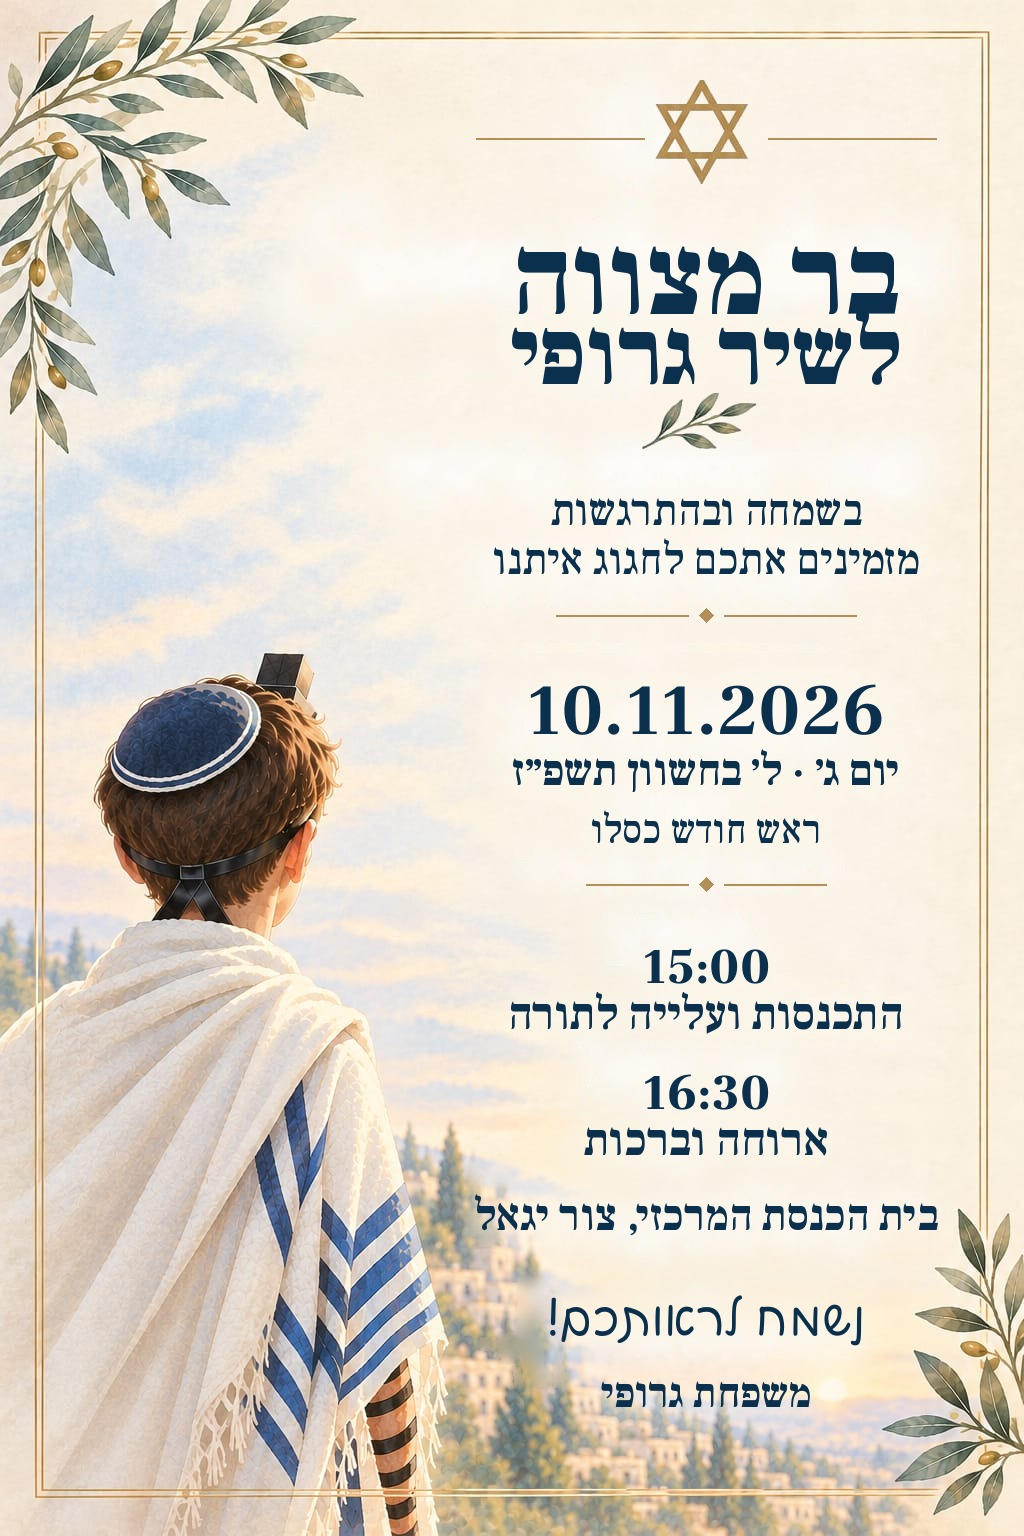
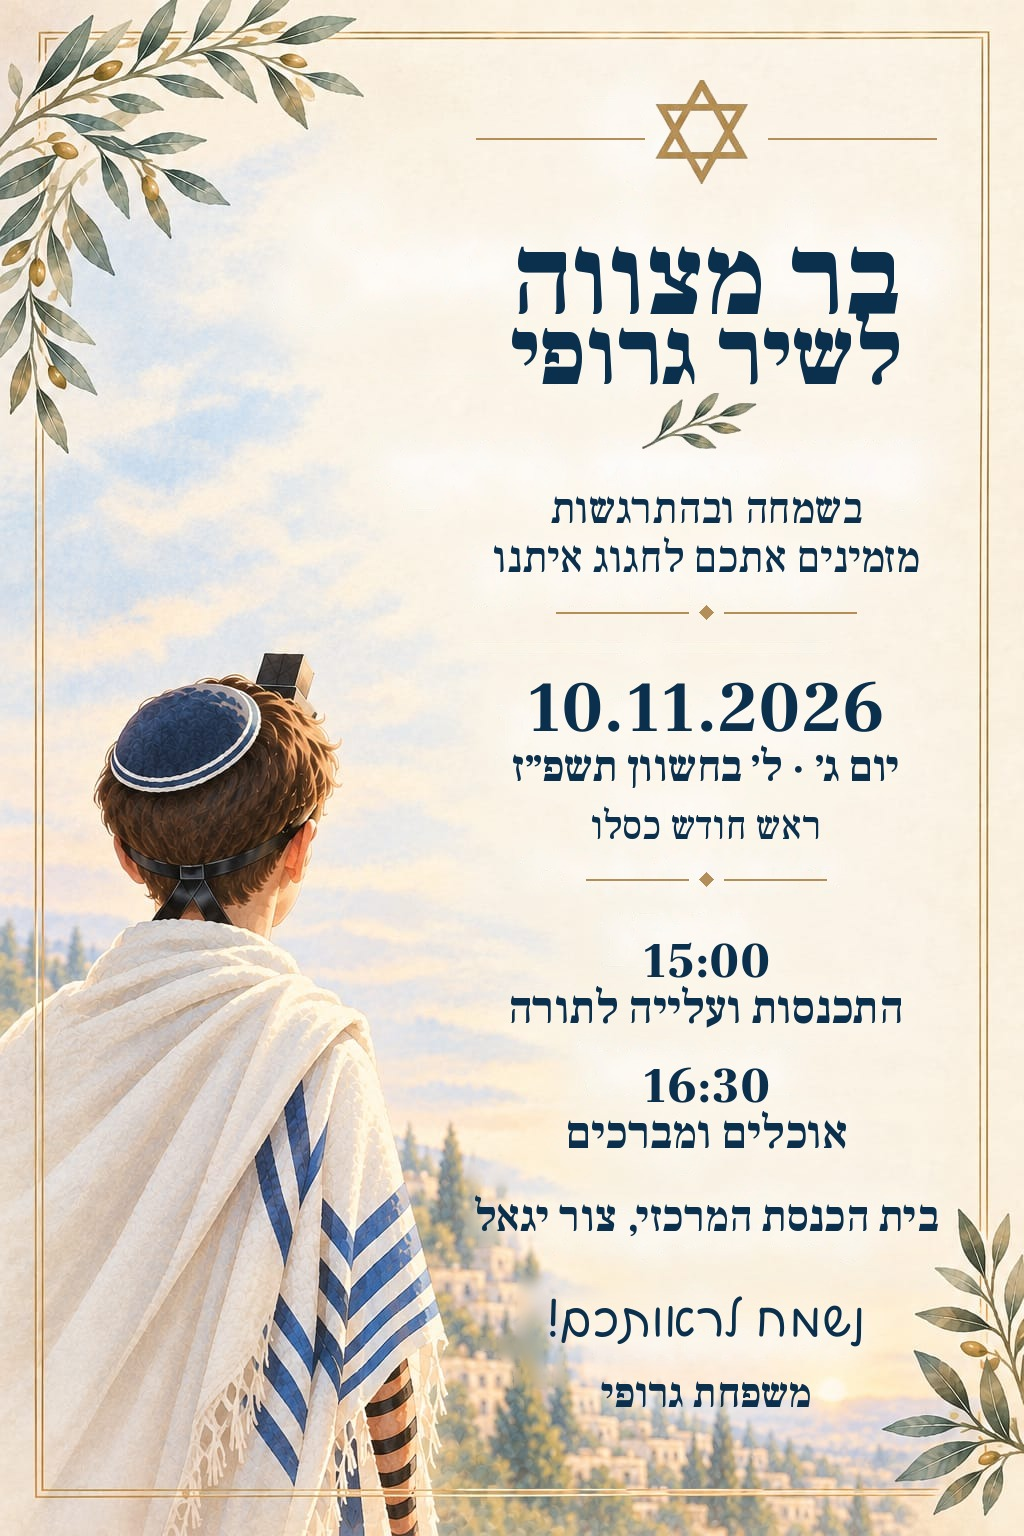
Rename the 16:30 item to 'אוכלים ומברכים' everywhere (#9)
Invitation image, page schedule, image alt text, Google Calendar details
and the .ics event.

Claude-Session: https://claude.ai/code/session_01QPmSkpswroct3hXfTPQpcg

diff --git a/index.html b/index.html
@@ -60,7 +60,7 @@
 
   <p class="hello top" id="hello">שלום וברוכים הבאים</p>
 
-  <img class="invite" src="invite.jpg" alt="הזמנה לבר המצווה של שיר גרופי: יום ג׳ 10.11.2026, 15:00 התכנסות ועלייה לתורה, 16:30 ארוחה וברכות, בית הכנסת המרכזי צור יגאל" width="1024" height="1536">
+  <img class="invite" src="invite.jpg" alt="הזמנה לבר המצווה של שיר גרופי: יום ג׳ 10.11.2026, 15:00 התכנסות ועלייה לתורה, 16:30 אוכלים ומברכים, בית הכנסת המרכזי צור יגאל" width="1024" height="1536">
 
   <div class="card" id="form">
     <h2>כמה תגיעו?</h2>
@@ -90,7 +90,7 @@
     <div class="ev">
       <div>📅 <b>יום ג׳, 10.11.26</b></div>
       <div>🕒 <b>15:00</b> – התכנסות ועלייה לתורה</div>
-      <div>🕟 <b>16:30</b> – ארוחה וברכות</div>
+      <div>🕟 <b>16:30</b> – אוכלים ומברכים</div>
       <div>📍 בית הכנסת המרכזי, צור יגאל</div>
     </div>
     <div class="navs" id="pageNav">
@@ -109,7 +109,7 @@ const WAZE_URL   = "https://waze.com/ul/hsv8zk0q3y";  // קישור לוויז
 const CAL_GOOGLE = "https://calendar.google.com/calendar/render?action=TEMPLATE"
   + "&text=" + encodeURIComponent("בר מצווה – שיר גרופי")
   + "&dates=20261110T130000Z/20261110T160000Z"
-  + "&details=" + encodeURIComponent("15:00 התכנסות ועלייה לתורה\n16:30 ארוחה וברכות\n\nניווט בוויז: " + WAZE_URL)
+  + "&details=" + encodeURIComponent("15:00 התכנסות ועלייה לתורה\n16:30 אוכלים ומברכים\n\nניווט בוויז: " + WAZE_URL)
   + "&location=" + encodeURIComponent("בית הכנסת המרכזי, צור יגאל");
 const isApple = /iPhone|iPad|iPod|Macintosh/.test(navigator.userAgent);
 const cal = document.getElementById("calBtn");
